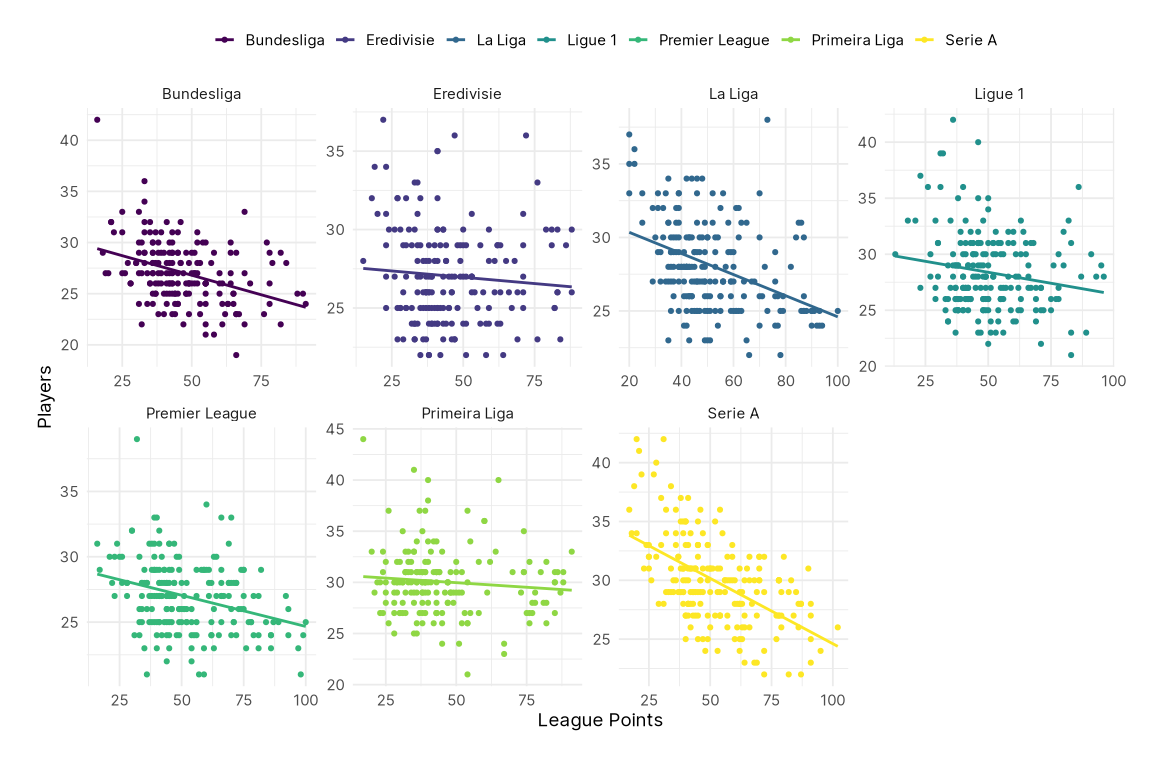
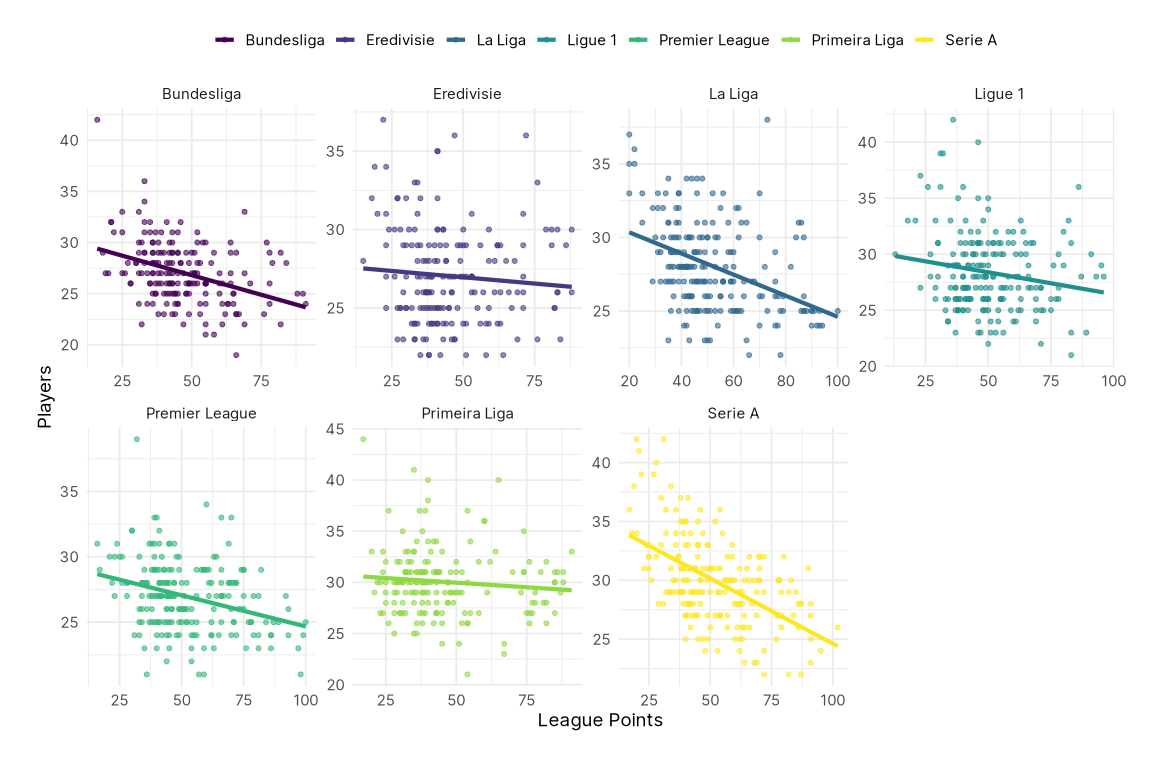
Update aesthetics and add splines to some plots

diff --git a/output/01-exploratory_data_analysis.md b/output/01-exploratory_data_analysis.md
@@ -65,7 +65,7 @@ club_resources %>%
 ``` r
 club_resources %>%
   ggplot(aes(pts, fill = league)) +
-  geom_histogram(binwidth = 5) +
+  geom_histogram(alpha = 0.8, binwidth = 5) +
   scale_fill_viridis_d(guide = guide_legend(nrow = 1)) +
   facet_wrap(~ league) +
   labs(x = "League Points", y = NULL)
@@ -82,7 +82,7 @@ points are distributed over time?
 ``` r
 club_resources %>%
   ggplot(aes(x = pts, y = season, fill = league)) +
-  ggridges::geom_density_ridges() +
+  ggridges::geom_density_ridges(alpha = 0.8) +
   scale_fill_viridis_d(guide = guide_legend(nrow = 1)) +
   facet_wrap(~ league) +
   labs(x = "League Points", y = NULL)
@@ -166,8 +166,8 @@ club_resources <-
 ``` r
 club_resources %>%
   ggplot(aes(pts, net_spend, colour = league)) +
-  geom_point() +
-  geom_smooth(method = "lm", se = FALSE) +
+  geom_point(alpha = 0.6, size = 1.5) +
+  geom_smooth(method = lm,  se = FALSE, size = 1.5, alpha = 0.8) +
   scale_colour_viridis_d(guide = guide_legend(nrow = 1)) +
   scale_y_continuous(
     labels = label_number(
@@ -192,8 +192,11 @@ club_resources %>%
 ``` r
 club_resources %>%
   ggplot(aes(pts, num_players)) +
-  geom_point() +
-  geom_smooth(method = "lm", se = FALSE) +
+  geom_point(alpha = 0.6, size = 1.5, colour = "gray30") +
+  geom_smooth(
+    method = lm, formula = y ~ splines::bs(x),
+    se = FALSE, size = 1.5, alpha = 0.6
+    ) +
   labs(x = "League Points", y = "Players")
 ```
 
@@ -204,8 +207,8 @@ club_resources %>%
 ``` r
 club_resources %>%
   ggplot(aes(pts, num_players, colour = league)) +
-  geom_point() +
-  geom_smooth(method = "lm", se = FALSE) +
+  geom_point(alpha = 0.6, size = 1.5) +
+  geom_smooth(method = lm,  se = FALSE, size = 1.5, alpha = 0.6) +
   scale_colour_viridis_d(guide = guide_legend(nrow = 1)) +
   labs(x = "League Points", y = "Players")
 ```
@@ -215,8 +218,8 @@ club_resources %>%
 ``` r
 club_resources %>%
   ggplot(aes(pts, num_players, colour = league)) +
-  geom_point() +
-  geom_smooth(method = "lm", se = FALSE) +
+  geom_point(alpha = 0.6, size = 1.5) +
+  geom_smooth(method = lm, se = FALSE, size = 1.5, alpha = 0.8) +
   scale_colour_viridis_d(guide = guide_legend(nrow = 1)) +
   facet_wrap(~ league, scales = "free", nrow = 2) +
   labs(x = "League Points", y = "Players")
@@ -238,8 +241,8 @@ club_resources %>%
 ``` r
 club_resources %>%
   ggplot(aes(pts, days_injured, colour = league)) +
-  geom_point() +
-  geom_smooth(method = "lm", se = FALSE) +
+  geom_point(alpha = 0.6, size = 1.5) +
+  geom_smooth(method = lm, se = FALSE, size = 1.5, alpha = 0.8) +
   scale_colour_viridis_d(guide = guide_legend(nrow = 1)) +
   facet_wrap(~ league, scales = "free", nrow = 2) +
   labs(x = "League Points", y = "Squad Days Injured")
@@ -269,7 +272,7 @@ club_resources %>%
 ``` r
 club_resources %>%
   ggplot(aes(x = value, y = forcats::as_factor(season), fill = league)) +
-  ggridges::geom_density_ridges() +
+  ggridges::geom_density_ridges(alpha = 0.8) +
   scale_fill_viridis_d(guide = guide_legend(nrow = 1)) +
   scale_x_continuous(
     labels = label_number(
@@ -307,8 +310,10 @@ club_resources %>%
 ``` r
 club_resources %>%
   ggplot(aes(pts, value, colour = league)) +
-  geom_point() +
-  geom_smooth(method = "lm", se = FALSE) +
+  geom_point(alpha = 0.6, size = 1.5) +
+  geom_smooth(
+    method = lm, formula = y ~ splines::bs(x),
+    se = FALSE, size = 1.5, alpha = 0.6) +
   scale_colour_viridis_d(guide = guide_legend(nrow = 1)) +
   scale_y_continuous(
     labels = label_number(scale_cut = cut_short_scale(), prefix = "€")
@@ -321,8 +326,10 @@ club_resources %>%
 ``` r
 club_resources %>%
   ggplot(aes(pts, value, colour = league)) +
-  geom_point() +
-  geom_smooth(method = "lm", se = FALSE) +
+  geom_point(alpha = 0.4, size = 1.5, colour = "gray30") +
+  geom_smooth(
+    method = lm, formula = y ~ splines::bs(x),
+    se = FALSE, size = 1.5, alpha = 0.6) +
   scale_colour_viridis_d(guide = guide_legend(nrow = 1)) +
   scale_y_continuous(
     labels = label_number(scale_cut = cut_short_scale(), prefix = "€")
@@ -344,8 +351,10 @@ points are distributed chagnes, and the role that money plays changes.
 ``` r
 club_resources %>%
   ggplot(aes(pts, value, colour = season)) +
-  geom_point() +
-  geom_smooth(method = "lm", se = FALSE) +
+  geom_point(alpha = 0.6, size = 1.5) +
+  geom_smooth(
+    method = lm, formula = y ~ splines::bs(x),
+    se = FALSE, size = 1.5, alpha = 0.6) +
   scale_colour_viridis_d(guide = guide_legend(nrow = 1)) +
   scale_y_continuous(
     labels = label_number(scale_cut = cut_short_scale(), prefix = "€")
@@ -358,8 +367,10 @@ club_resources %>%
 ``` r
 club_resources %>%
   ggplot(aes(pts, value, colour = season)) +
-  geom_point() +
-  geom_smooth(method = "lm", se = FALSE) +
+  geom_point(alpha = 0.4, size = 1.5, colour = "gray30") +
+  geom_smooth(
+    method = lm, formula = y ~ splines::bs(x),
+    se = FALSE, size = 1, alpha = 0.6) +
   scale_colour_viridis_d(guide = guide_legend(nrow = 1)) +
   scale_y_continuous(
     labels = label_number(scale_cut = cut_short_scale(), prefix = "€")
